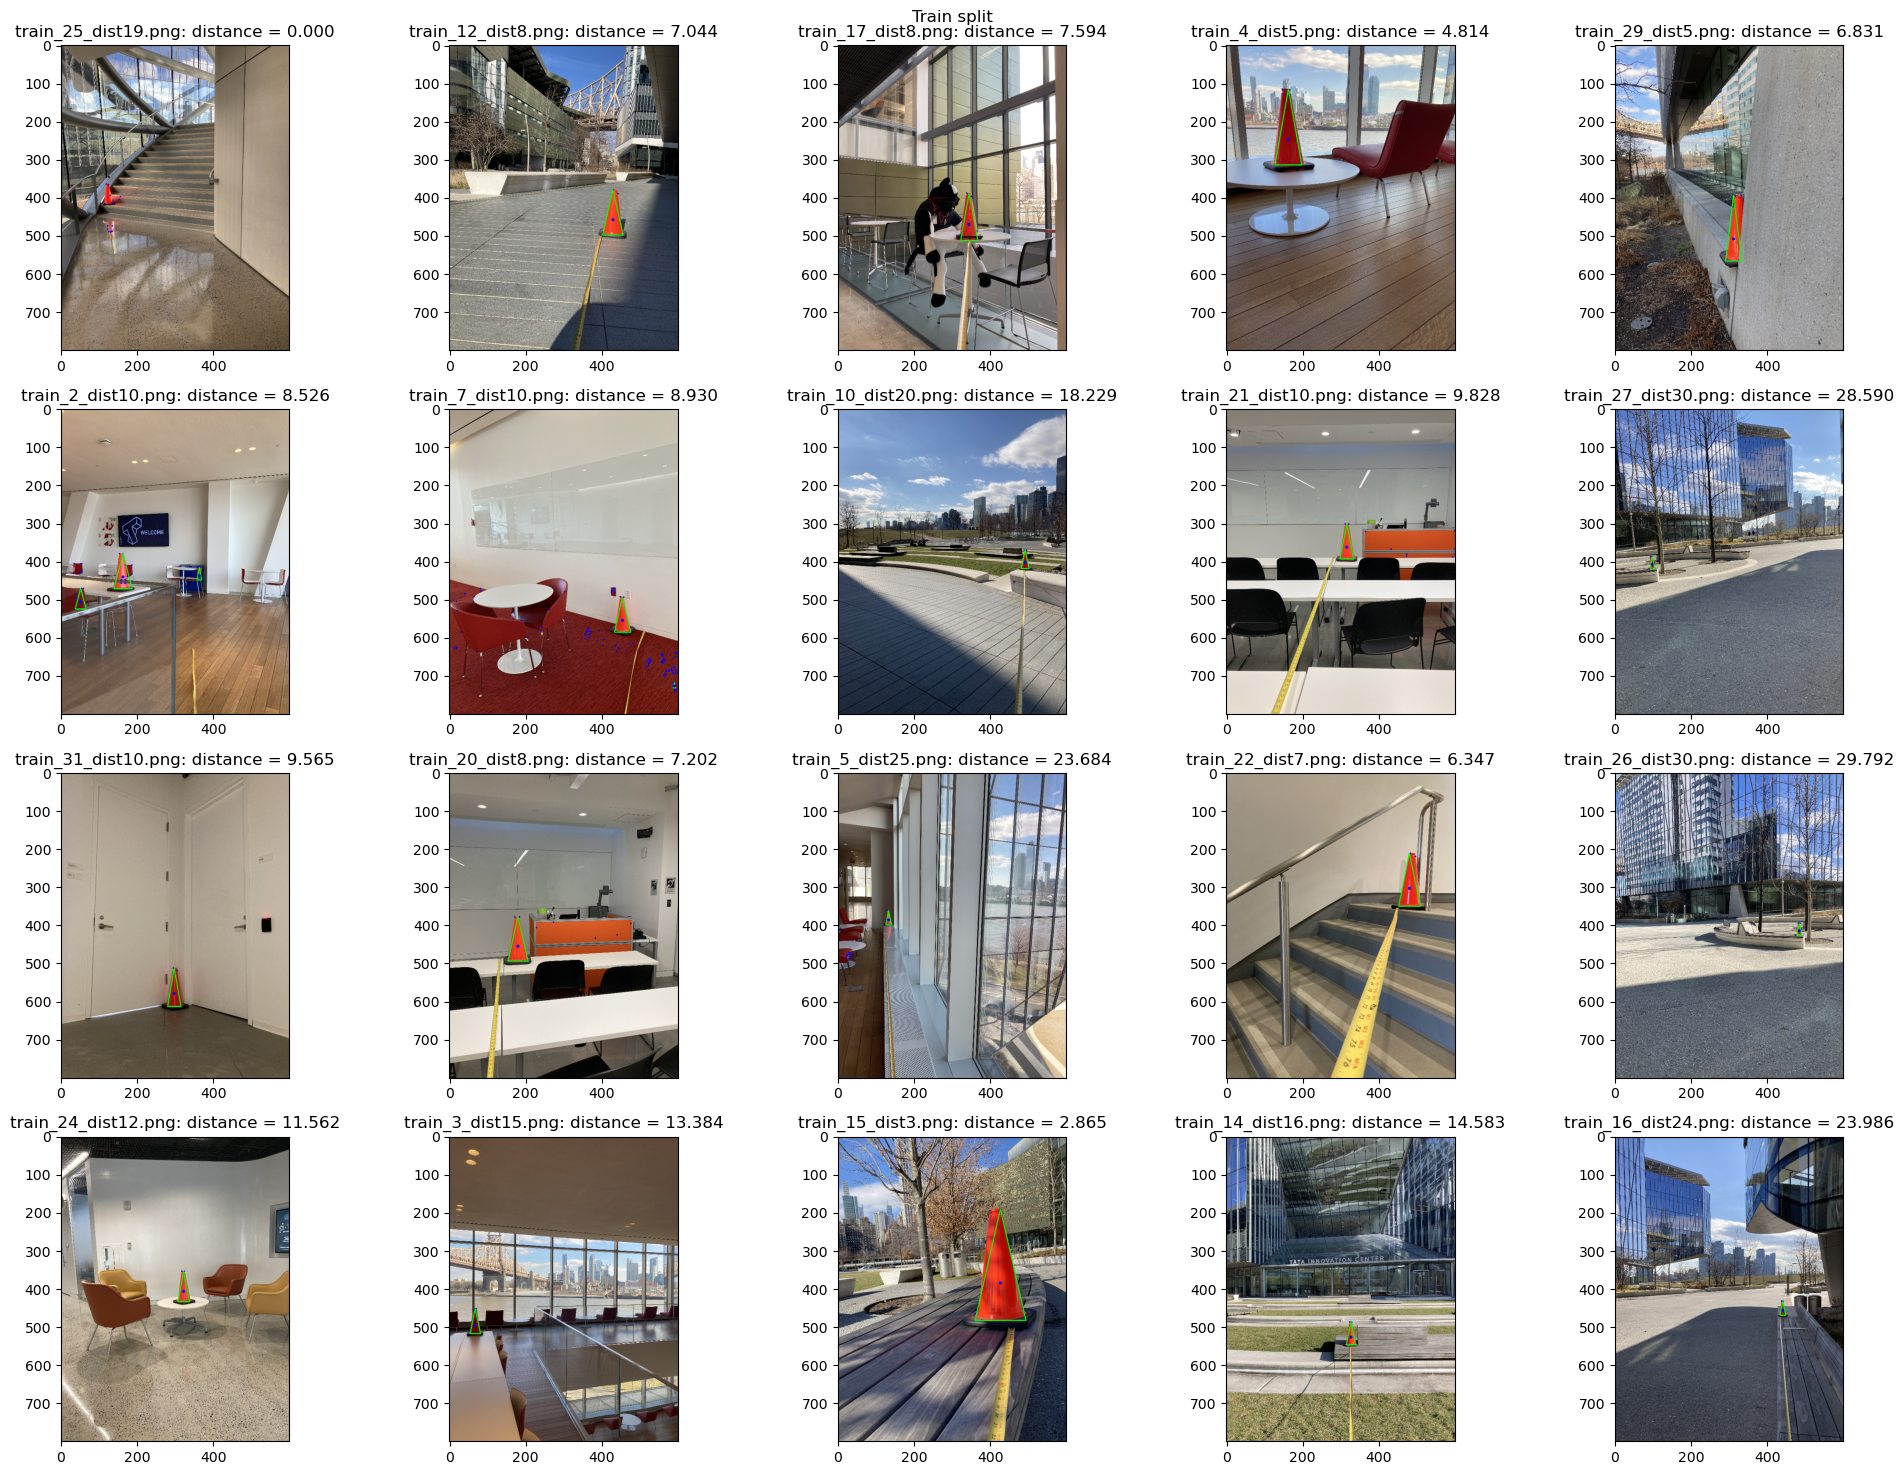
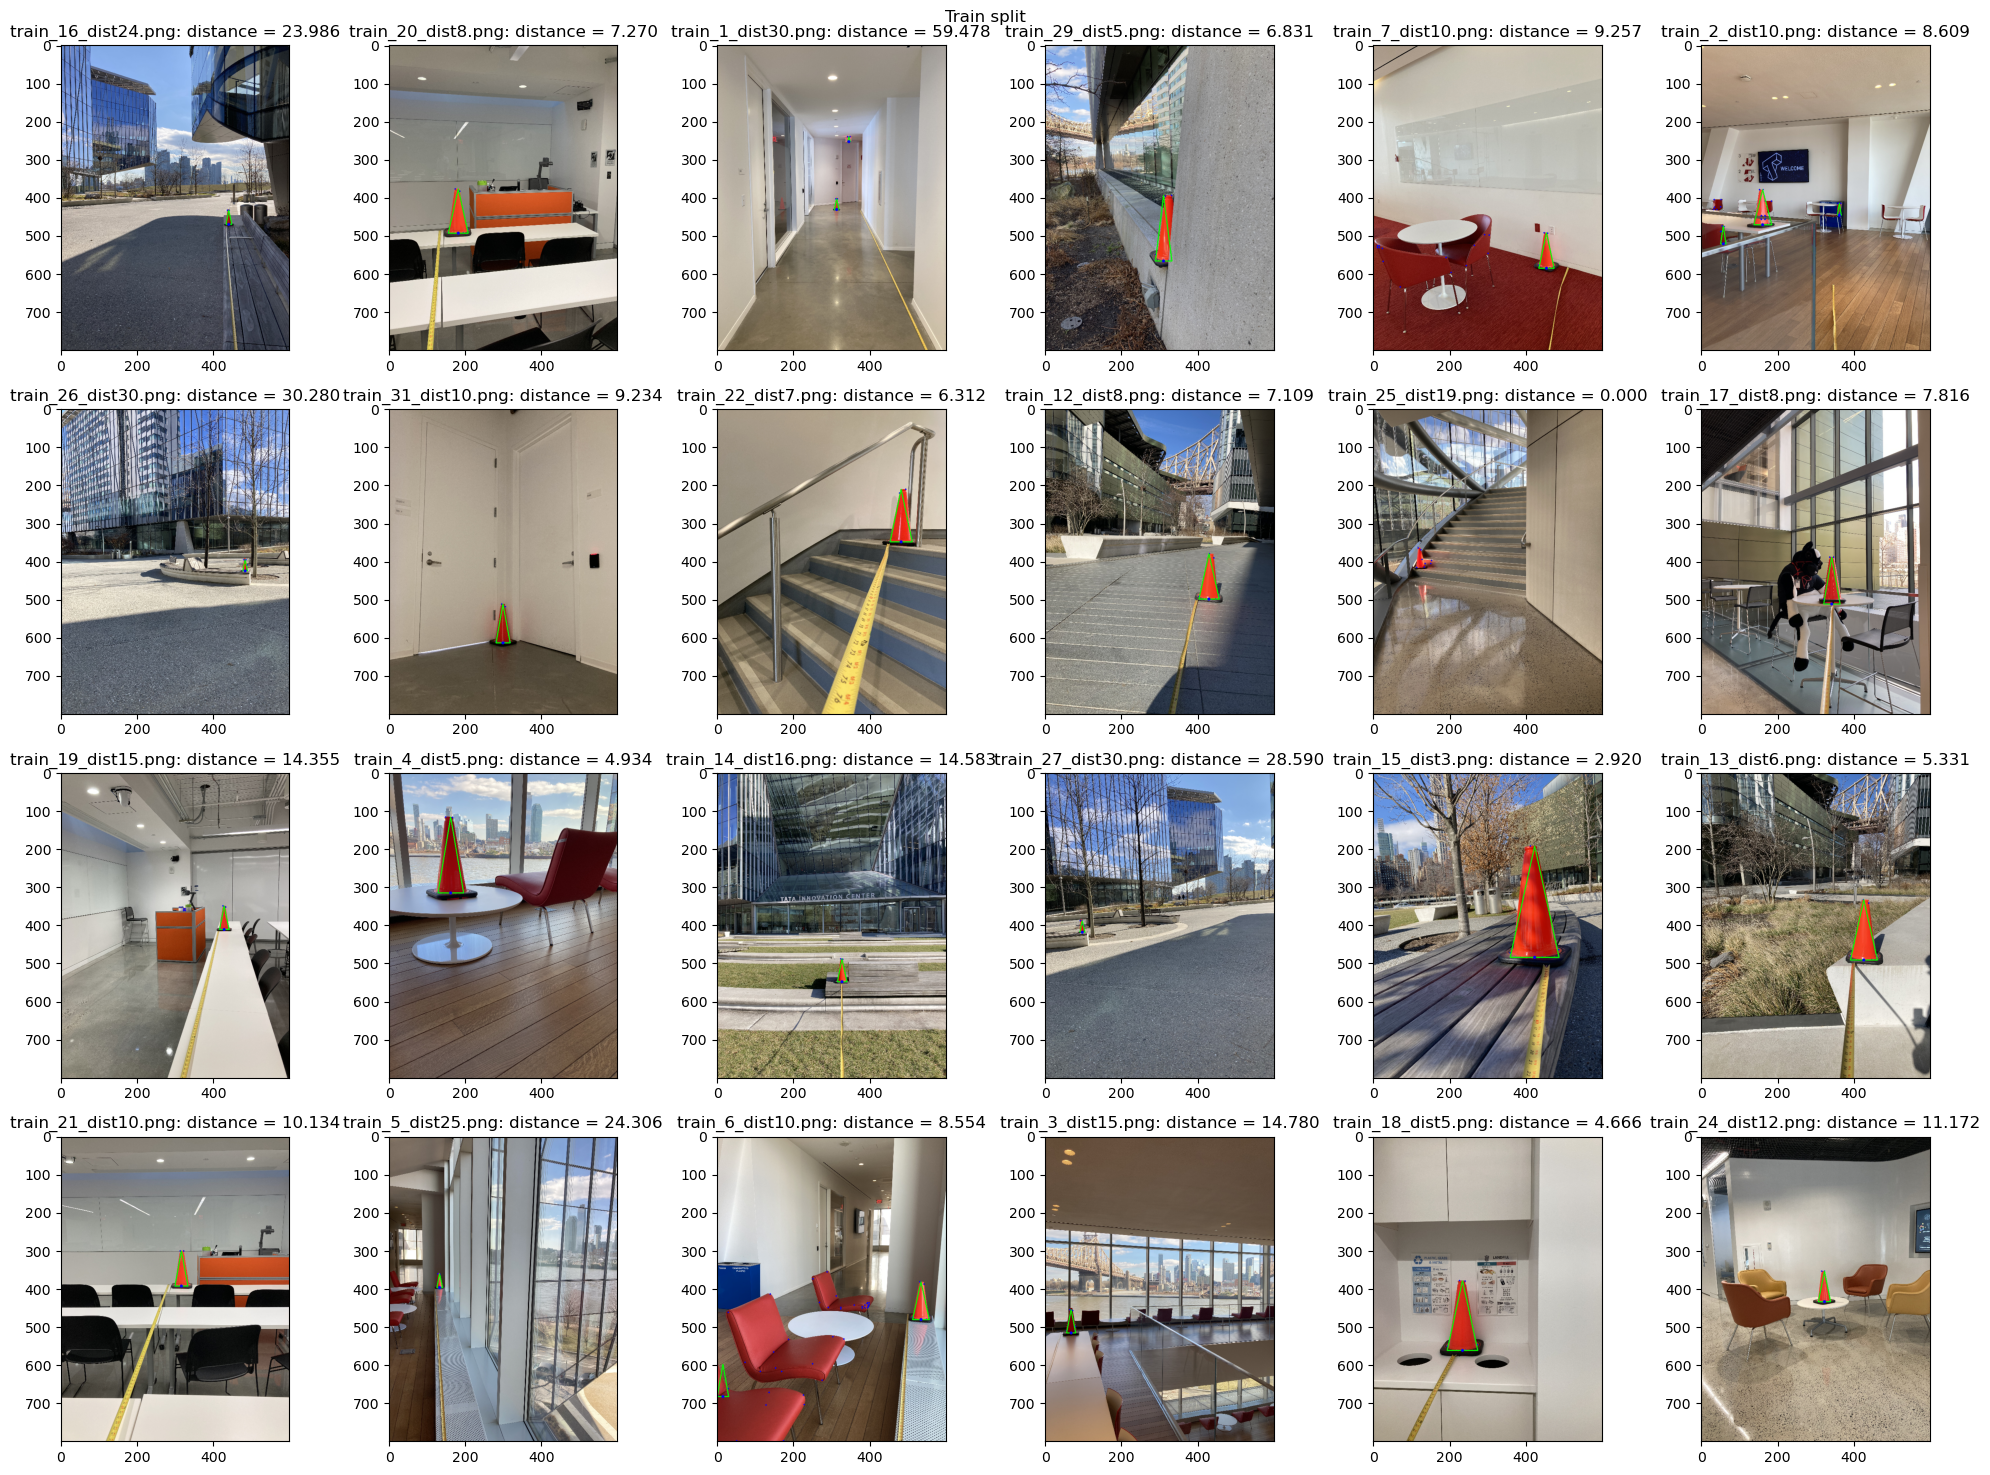
update report

diff --git a/report.md b/report.md
@@ -58,51 +58,54 @@ To calculate the distance of a cone in the test set, I calculate the distance to
 **Test dataset:**
 
 ```
-ImageNo = [3], CentroidX = 318.000, CentroidY = 414.000, Distance = 7.309
-ImageNo = [2], CentroidX = 475.000, CentroidY = 458.000, Distance = 3.552
-ImageNo = [1], CentroidX = 228.000, CentroidY = 462.000, Distance = 7.583
-ImageNo = [5], CentroidX = 261.000, CentroidY = 408.000, Distance = 7.336
-ImageNo = [5], CentroidX = 346.000, CentroidY = 501.000, Distance = 2.810
-ImageNo = [4], CentroidX = 300.000, CentroidY = 404.000, Distance = 20.689
+ImageNo = [3], CentroidX = 319.000, CentroidY = 453.000, Distance = 7.622
+ImageNo = [2], CentroidX = 470.000, CentroidY = 531.000, Distance = 3.737
+ImageNo = [1], CentroidX = 228.000, CentroidY = 522.000, Distance = 7.583
+ImageNo = [5], CentroidX = 261.000, CentroidY = 451.000, Distance = 7.336
+ImageNo = [5], CentroidX = 346.000, CentroidY = 600.000, Distance = 2.825
+ImageNo = [4], CentroidX = 301.000, CentroidY = 419.000, Distance = 21.378
 ```
 ![Test Visualization](plots/test_split.png)
 ---
 
 Train split:
 ```
-ImageNo = [12], CentroidX = 429.000, CentroidY = 458.000, Distance = 7.044
-ImageNo = [17], CentroidX = 343.000, CentroidY = 470.000, Distance = 7.594
-ImageNo = [4], CentroidX = 163.000, CentroidY = 247.000, Distance = 4.814
-ImageNo = [29], CentroidX = 310.000, CentroidY = 508.000, Distance = 6.831
-ImageNo = [2], CentroidX = 51.000, CentroidY = 506.000, Distance = 14.567
-ImageNo = [2], CentroidX = 362.000, CentroidY = 437.000, Distance = 28.504
-ImageNo = [2], CentroidX = 162.000, CentroidY = 440.000, Distance = 8.526
-ImageNo = [7], CentroidX = 590.000, CentroidY = 726.000, Distance = 61.607
-ImageNo = [7], CentroidX = 454.000, CentroidY = 554.000, Distance = 8.930
-ImageNo = [10], CentroidX = 490.000, CentroidY = 402.000, Distance = 18.229
-ImageNo = [21], CentroidX = 316.000, CentroidY = 362.000, Distance = 9.828
-ImageNo = [27], CentroidX = 97.000, CentroidY = 407.000, Distance = 28.590
-ImageNo = [31], CentroidX = 296.000, CentroidY = 578.000, Distance = 9.565
-ImageNo = [20], CentroidX = 180.000, CentroidY = 454.000, Distance = 7.202
-ImageNo = [5], CentroidX = 2.000, CentroidY = 411.000, Distance = 79.567
-ImageNo = [5], CentroidX = 132.000, CentroidY = 385.000, Distance = 23.684
-ImageNo = [22], CentroidX = 480.000, CentroidY = 302.000, Distance = 6.347
-ImageNo = [26], CentroidX = 482.000, CentroidY = 414.000, Distance = 29.792
-ImageNo = [24], CentroidX = 321.000, CentroidY = 407.000, Distance = 11.562
-ImageNo = [3], CentroidX = 68.000, CentroidY = 496.000, Distance = 13.384
-ImageNo = [15], CentroidX = 425.000, CentroidY = 385.000, Distance = 2.865
-ImageNo = [14], CentroidX = 327.000, CentroidY = 527.000, Distance = 14.583
-ImageNo = [16], CentroidX = 439.000, CentroidY = 457.000, Distance = 23.986
+ImageNo = [16], CentroidX = 439.000, CentroidY = 470.000, Distance = 23.986
+ImageNo = [20], CentroidX = 181.000, CentroidY = 493.000, Distance = 7.270
+ImageNo = [1], CentroidX = 313.000, CentroidY = 431.000, Distance = 30.804
+ImageNo = [1], CentroidX = 345.000, CentroidY = 253.000, Distance = 59.478
+ImageNo = [29], CentroidX = 310.000, CentroidY = 566.000, Distance = 6.831
+ImageNo = [7], CentroidX = 454.000, CentroidY = 585.000, Distance = 9.257
+ImageNo = [2], CentroidX = 58.000, CentroidY = 521.000, Distance = 22.435
+ImageNo = [2], CentroidX = 362.000, CentroidY = 446.000, Distance = 32.460
+ImageNo = [2], CentroidX = 161.000, CentroidY = 471.000, Distance = 8.609
+ImageNo = [26], CentroidX = 482.000, CentroidY = 424.000, Distance = 30.280
+ImageNo = [31], CentroidX = 298.000, CentroidY = 613.000, Distance = 9.234
+ImageNo = [22], CentroidX = 482.000, CentroidY = 348.000, Distance = 6.312
+ImageNo = [12], CentroidX = 429.000, CentroidY = 498.000, Distance = 7.109
+ImageNo = [17], CentroidX = 342.000, CentroidY = 511.000, Distance = 7.816
+ImageNo = [19], CentroidX = 427.000, CentroidY = 410.000, Distance = 14.355
+ImageNo = [4], CentroidX = 161.000, CentroidY = 314.000, Distance = 4.934
+ImageNo = [14], CentroidX = 327.000, CentroidY = 547.000, Distance = 14.583
+ImageNo = [27], CentroidX = 97.000, CentroidY = 417.000, Distance = 28.590
+ImageNo = [15], CentroidX = 423.000, CentroidY = 483.000, Distance = 2.920
+ImageNo = [13], CentroidX = 426.000, CentroidY = 490.000, Distance = 5.331
+ImageNo = [21], CentroidX = 315.000, CentroidY = 393.000, Distance = 10.134
+ImageNo = [5], CentroidX = 132.000, CentroidY = 397.000, Distance = 24.306
+ImageNo = [6], CentroidX = 15.000, CentroidY = 683.000, Distance = 11.250
+ImageNo = [6], CentroidX = 534.000, CentroidY = 481.000, Distance = 8.554
+ImageNo = [3], CentroidX = 68.000, CentroidY = 516.000, Distance = 14.780
+ImageNo = [18], CentroidX = 234.000, CentroidY = 562.000, Distance = 4.666
+ImageNo = [24], CentroidX = 323.000, CentroidY = 434.000, Distance = 11.172
 ```
 ![Train Visualization](plots/train_split.png)
 
 Validation split:
 ```
-ImageNo = [1], CentroidX = 313.000, CentroidY = 421.000, Distance = 30.804
-ImageNo = [6], CentroidX = 534.000, CentroidY = 448.000, Distance = 8.369
-ImageNo = [18], CentroidX = 235.000, CentroidY = 501.000, Distance = 4.609
-ImageNo = [13], CentroidX = 428.000, CentroidY = 437.000, Distance = 5.224
-ImageNo = [19], CentroidX = 427.000, CentroidY = 389.000, Distance = 14.355
+ImageNo = [18], CentroidX = 234.000, CentroidY = 562.000, Distance = 4.666
+ImageNo = [7], CentroidX = 454.000, CentroidY = 585.000, Distance = 9.257
+ImageNo = [15], CentroidX = 423.000, CentroidY = 483.000, Distance = 2.920
+ImageNo = [26], CentroidX = 482.000, CentroidY = 424.000, Distance = 30.280
 ```
 ![Validation Visualization](plots/val_split.png)
 
